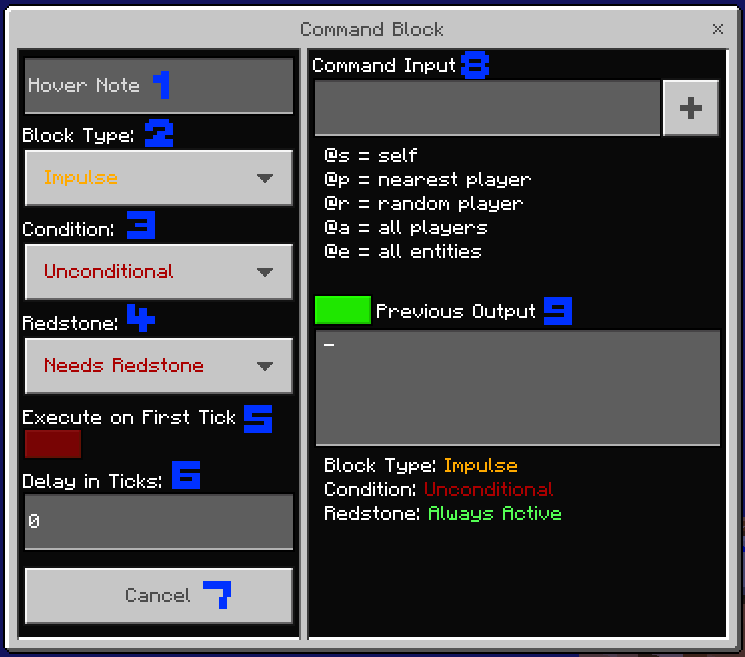
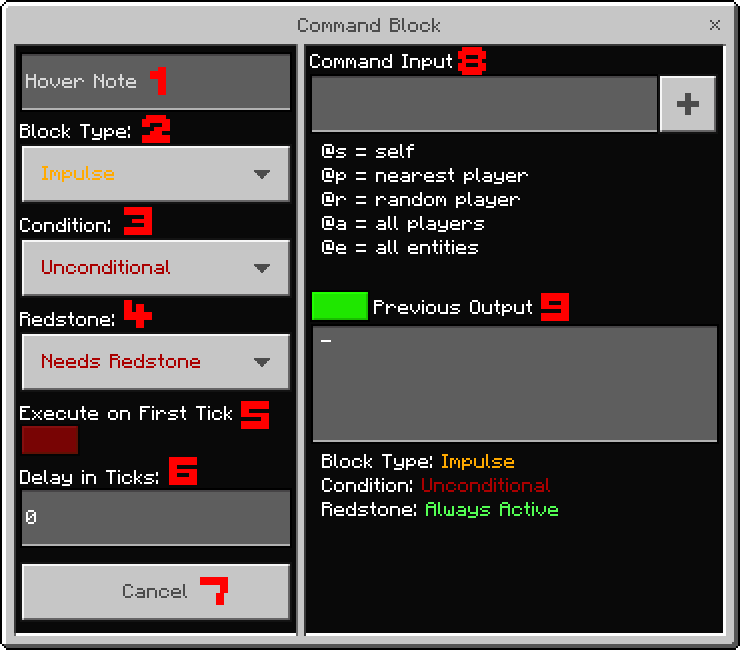
Add files via upload

Changed region(s): [[0.0, 0.0, 1.0, 1.0], [0.4973, 0.4308, 0.777, 0.5231]]

diff --git a/muc-luc/command-block.html b/muc-luc/command-block.html
@@ -1,8 +1,8 @@
 <!DOCTYPE html>
 <html lang="vi">
 <head>
-	<link rel="stylesheet" href="../lib/styles.css">
 	<meta charset="utf-8">
+	<link rel="stylesheet" href="../lib/styles.css">
 	<meta name="viewport" content="width=device-width, initial-scale=1">
 
 	<title>Command Block | MCBE Command Wiki VN by Hg</title>
@@ -29,12 +29,12 @@
 		<a class="title" href="../index.html" title="Đi đến trang chủ">MCBE Command Wiki</a>
 	</header>
 	<div class="page_display">
-		<div class="left">
+		<div class="left mobile">
 			<div class="slot">
 				<div class="slot row1 box"> <!-- Mục lục -->
 					<div class="row1 h">Mục lục</div>
 					<div class="row2 p center">
-						<a class="link_text" href="index.html" title="Đi đến Trang chủ">Trang chủ</a><br>
+						<a class="link_text" href="../index.html" title="Đi đến Trang chủ">Trang chủ</a><br>
 						<a class="link_text" href="target.html" title="Đi đến Target">Target "Mục tiêu"</a><br>
 						<a class="link_text" href="ki-tu.html" title="Đi đến 1 số kí tự đặc biệt">1 số kí tự đặc biệt</a><br>
 						<a class="link_text" href="commands.html" title="Đi đến Commands">Commands</a><br>
@@ -43,7 +43,7 @@
 				</div>
 			</div>
 		</div>
-		<div class="right mobile">
+		<div class="right">
 			<div class="slot">
 				<div class="row1 h" style="margin-bottom: 10px;">Command Block</div>
 			</div>
@@ -62,12 +62,111 @@
 			</div>
 			<div class="slot box"> <!-- Các thành phần -->
 				<div class="row1 h_cmd">Các thành phần</div>
-				<div class="row2 p">...
+				<div class="row2 p">
+					<div align="center">
+						<img src="../lib/media/cmdb_ui.png" usemap="#cmdb_ui">
+						<map name="cmdb_ui">
+							<area shape="rect" coords="20,52,291,111" href="#ui1">
+							<area shape="rect" coords="20,124,291,203" href="#ui2">
+							<area shape="rect" coords="20,218,291,297" href="#ui3">
+							<area shape="rect" coords="20,312,291,391" href="#ui4">
+							<area shape="rect" coords="20,406,291,455" href="#ui5">
+							<area shape="rect" coords="20,470,291,547" href="#ui6">
+							<area shape="rect" coords="20,562,291,621" href="#ui7">
+							<area shape="rect" coords="310,54,717,133" href="#ui8">
+							<area shape="rect" coords="310,290,718,443" href="#ui9">
+						</map>
+					</div>
+					<div id="ui1">◟Hover Note là ô ghi chú <span class="note">(1)</span></div>
+					<div id="ui2">◟Block Type là loại Block <span class="note">(2)</span>. Danh sách:</div>
+					<div class="tab p_small">
+						◟Impulse là xung, chạy 1 lần mỗi lần kích hoạt<br>
+						◟Chain là liền chuỗi, chạy 1 lần mỗi lần có Command Block hướng vào nó hoạt động<br>
+						◟Repeat là lặp, chạy lặp mỗi lần kích hoạt
+						<div align="center">
+							<img src="../lib/media/cmdb_type.png" class="image30">
+						</div>
+					</div>
+					<div id="ui3">◟Condition là điều kiện, kiểm tra Command Block phía sau hướng vào nó có thực thi được Command không <span class="note">(3)</span>. Danh sách:</div>
+					<div class="tab p_small">
+						◟Condition là có điều kiện<br>
+						◟Uncondition là không điều kiện
+						<div align="center">
+							<img src="../lib/media/cmdb_condition.png" class="image30">
+						</div>
+					</div>
+					<div id="ui4">◟Redstone là năng lượng <span class="note">(4)</span>. Danh sách:</div>
+					<div class="tab p_small">
+						◟Always Active là luôn hoạt động, không cần năng lượng Redstone để kích hoạt<br>
+						◟Needs Redstone là cần năng lượng Redstone để kích hoạt
+						<div align="center">
+							<img src="../lib/media/cmdb_redstone.png" class="image30">
+						</div>
+					</div>
+					<div id="ui5">◟Execute on First Tick là hoạt động ngay từ Tick đầu tiên <span class="note">(5)</span></div>
+					<div id="ui6">◟Delay in Ticks là độ trễ của Tick <span class="note">(6)</span></div>
+					<div id="ui7">◟Cancel là hủy thay đổi <span class="note">(7)</span></div>
+					<div id="ui8">◟Command Input là nơi nhập Command (Cạnh đó có dấu + để mở rộng bảng ghi) <span class="note">(8)</span></div>
+					<div id="ui9">◟Previous Output là thông báo đầu ra Command trước đó (Nút trên đó để bật tắt hiện thông báo trong Block) <span class="note">(9)</span></div>
+				</div>
+			</div>
+			<div class="slot box"> <!-- Chi tiết về tổ hợp Block Type + Condition + Redstone -->
+				<div class="row1 h_cmd">Chi tiết về tổ hợp Block Type + Condition + Redstone</div>
+				<div class="row2 p">
+					◟Impulse + Unconditional + Needs Redstone
+					<div class="tab p_small">
+						◟Chạy 1 lần mỗi lần kích hoạt bằng đá đỏ
+					</div>
+					◟Impulse + Unconditional + Always Active
+					<div class="tab p_small">
+						◟Chạy 1 lần mỗi lần kích hoạt
+					</div>
+					◟Impulse + Condition + Needs Redstone
+					<div class="tab p_small">
+						◟Chạy 1 lần mỗi lần kích hoạt bằng đá đỏ có Command Block phía sau hướng vào nó phải thực thi được Command
+					</div>
+					◟Impulse + Condition + Always Active
+					<div class="tab p_small">
+						◟Chạy 1 lần mỗi lần kích hoạt có Command Block phía sau hướng vào nó phải thực thi được Command
+					</div>
+					◟Chain + Unconditional + Needs Redstone
+					<div class="tab p_small">
+						◟Chạy 1 lần mỗi lần kích hoạt bằng đá đỏ có Command Block hướng vào nó hoạt động
+					</div>
+					◟Chain + Unconditional + Always	Active
+					<div class="tab p_small">
+						◟Chạy 1 lần mỗi lần có Command Block hướng vào nó hoạt động
+					</div>
+					◟Chain + Condition + Needs Redstone
+					<div class="tab p_small">
+						◟Chạy 1 lần mỗi lần kích hoạt bằng đá đỏ có Command Block phía sau hướng vào nó phải thực thi được Command
+					</div>
+					◟Chain + Condition + Always Active
+					<div class="tab p_small">
+						◟Chạy 1 lần mỗi lần có Command Block phía sau hướng vào nó phải thực thi được Command
+					</div>
+					◟Reapeat + Unconditional + Needs Redstone
+					<div class="tab p_small">
+						◟Chạy lặp mỗi lần kích hoạt bằng đá đỏ
+					</div>
+					◟Reapeat + Unconditional + Always Active
+					<div class="tab p_small">
+						◟Chạy lặp mỗi lần kích hoạt
+					</div>
+					◟Reapeat + Condition + Needs Redstone
+					<div class="tab p_small">
+						◟Chạy lặp mỗi lần kích hoạt bằng đá đỏ có Command Block phía sau hướng vào nó phải thực thi được Command
+					</div>
+					◟Reapeat + Condition + Always Active
+					<div class="tab p_small">
+						◟Chạy lặp mỗi lần kích hoạt có Command Block phía sau hướng vào nó phải thực thi được Command
+					</div>
 				</div>
 			</div>
 			<div class="slot box"> <!-- Lưu ý -->
 				<div class="row1 h_cmd">Lưu ý</div>
-				<div class="row2 p">...
+				<div class="row2 p">
+					◟<span class="cmd">/gamerule comamndblockoutput false</span> sẽ tắt Previous Output. Bạn vẫn có thể bật nó lên bằng nút trong Block
 				</div>
 			</div>
 		</div>

diff --git a/lib/styles.css b/lib/styles.css
@@ -109,7 +109,7 @@ footer {
   padding: 5px;
 }
 .p_small {
-  font-size: 17px;
+  font-size: 16px;
 }
 .tab {
   padding-left: 20px;
@@ -138,6 +138,10 @@ footer {
 }
 .note {
   color: #ff1212;
+}
+.image30 {
+  width: 30%;
+  height: 30%;
 }
 /*Mobile*/
 @media screen and (max-width: 720px) {
@@ -170,6 +174,6 @@ footer {
     font-size: 14px;
   }
   .p_small {
-    font-size: 11px;
+    font-size: 10px;
   }
 }

diff --git a/commands/scoreboard.html b/commands/scoreboard.html
@@ -1,8 +1,8 @@
 <!DOCTYPE html>
 <html lang="vi">
 <head>
-	<link rel="stylesheet" href="../lib/styles.css">
 	<meta charset="utf-8">
+	<link rel="stylesheet" href="../lib/styles.css">
 	<meta name="viewport" content="width=device-width, initial-scale=1">
 	
 	<title>/scoreboard | MCBE Command Wiki VN by Hg</title>

diff --git a/muc-luc/commands.html b/muc-luc/commands.html
@@ -1,8 +1,8 @@
 <!DOCTYPE html>
 <html lang="vi">
 <head>
-	<link rel="stylesheet" href="../lib/styles.css">
 	<meta charset="utf-8">
+	<link rel="stylesheet" href="../lib/styles.css">
 	<meta name="viewport" content="width=device-width, initial-scale=1">
 
 	<title>Commands | MCBE Command Wiki VN by Hg</title>

diff --git a/index.html b/index.html
@@ -1,8 +1,8 @@
 <!DOCTYPE html>
 <html lang="vi">
 <head>
-	<link rel="stylesheet" href="lib/styles.css">
 	<meta charset="utf-8">
+	<link rel="stylesheet" href="lib/styles.css">
 	<meta name="viewport" content="width=device-width, initial-scale=1">
 
 	<title>Trang chủ | MCBE Command Wiki VN by Hg</title>
